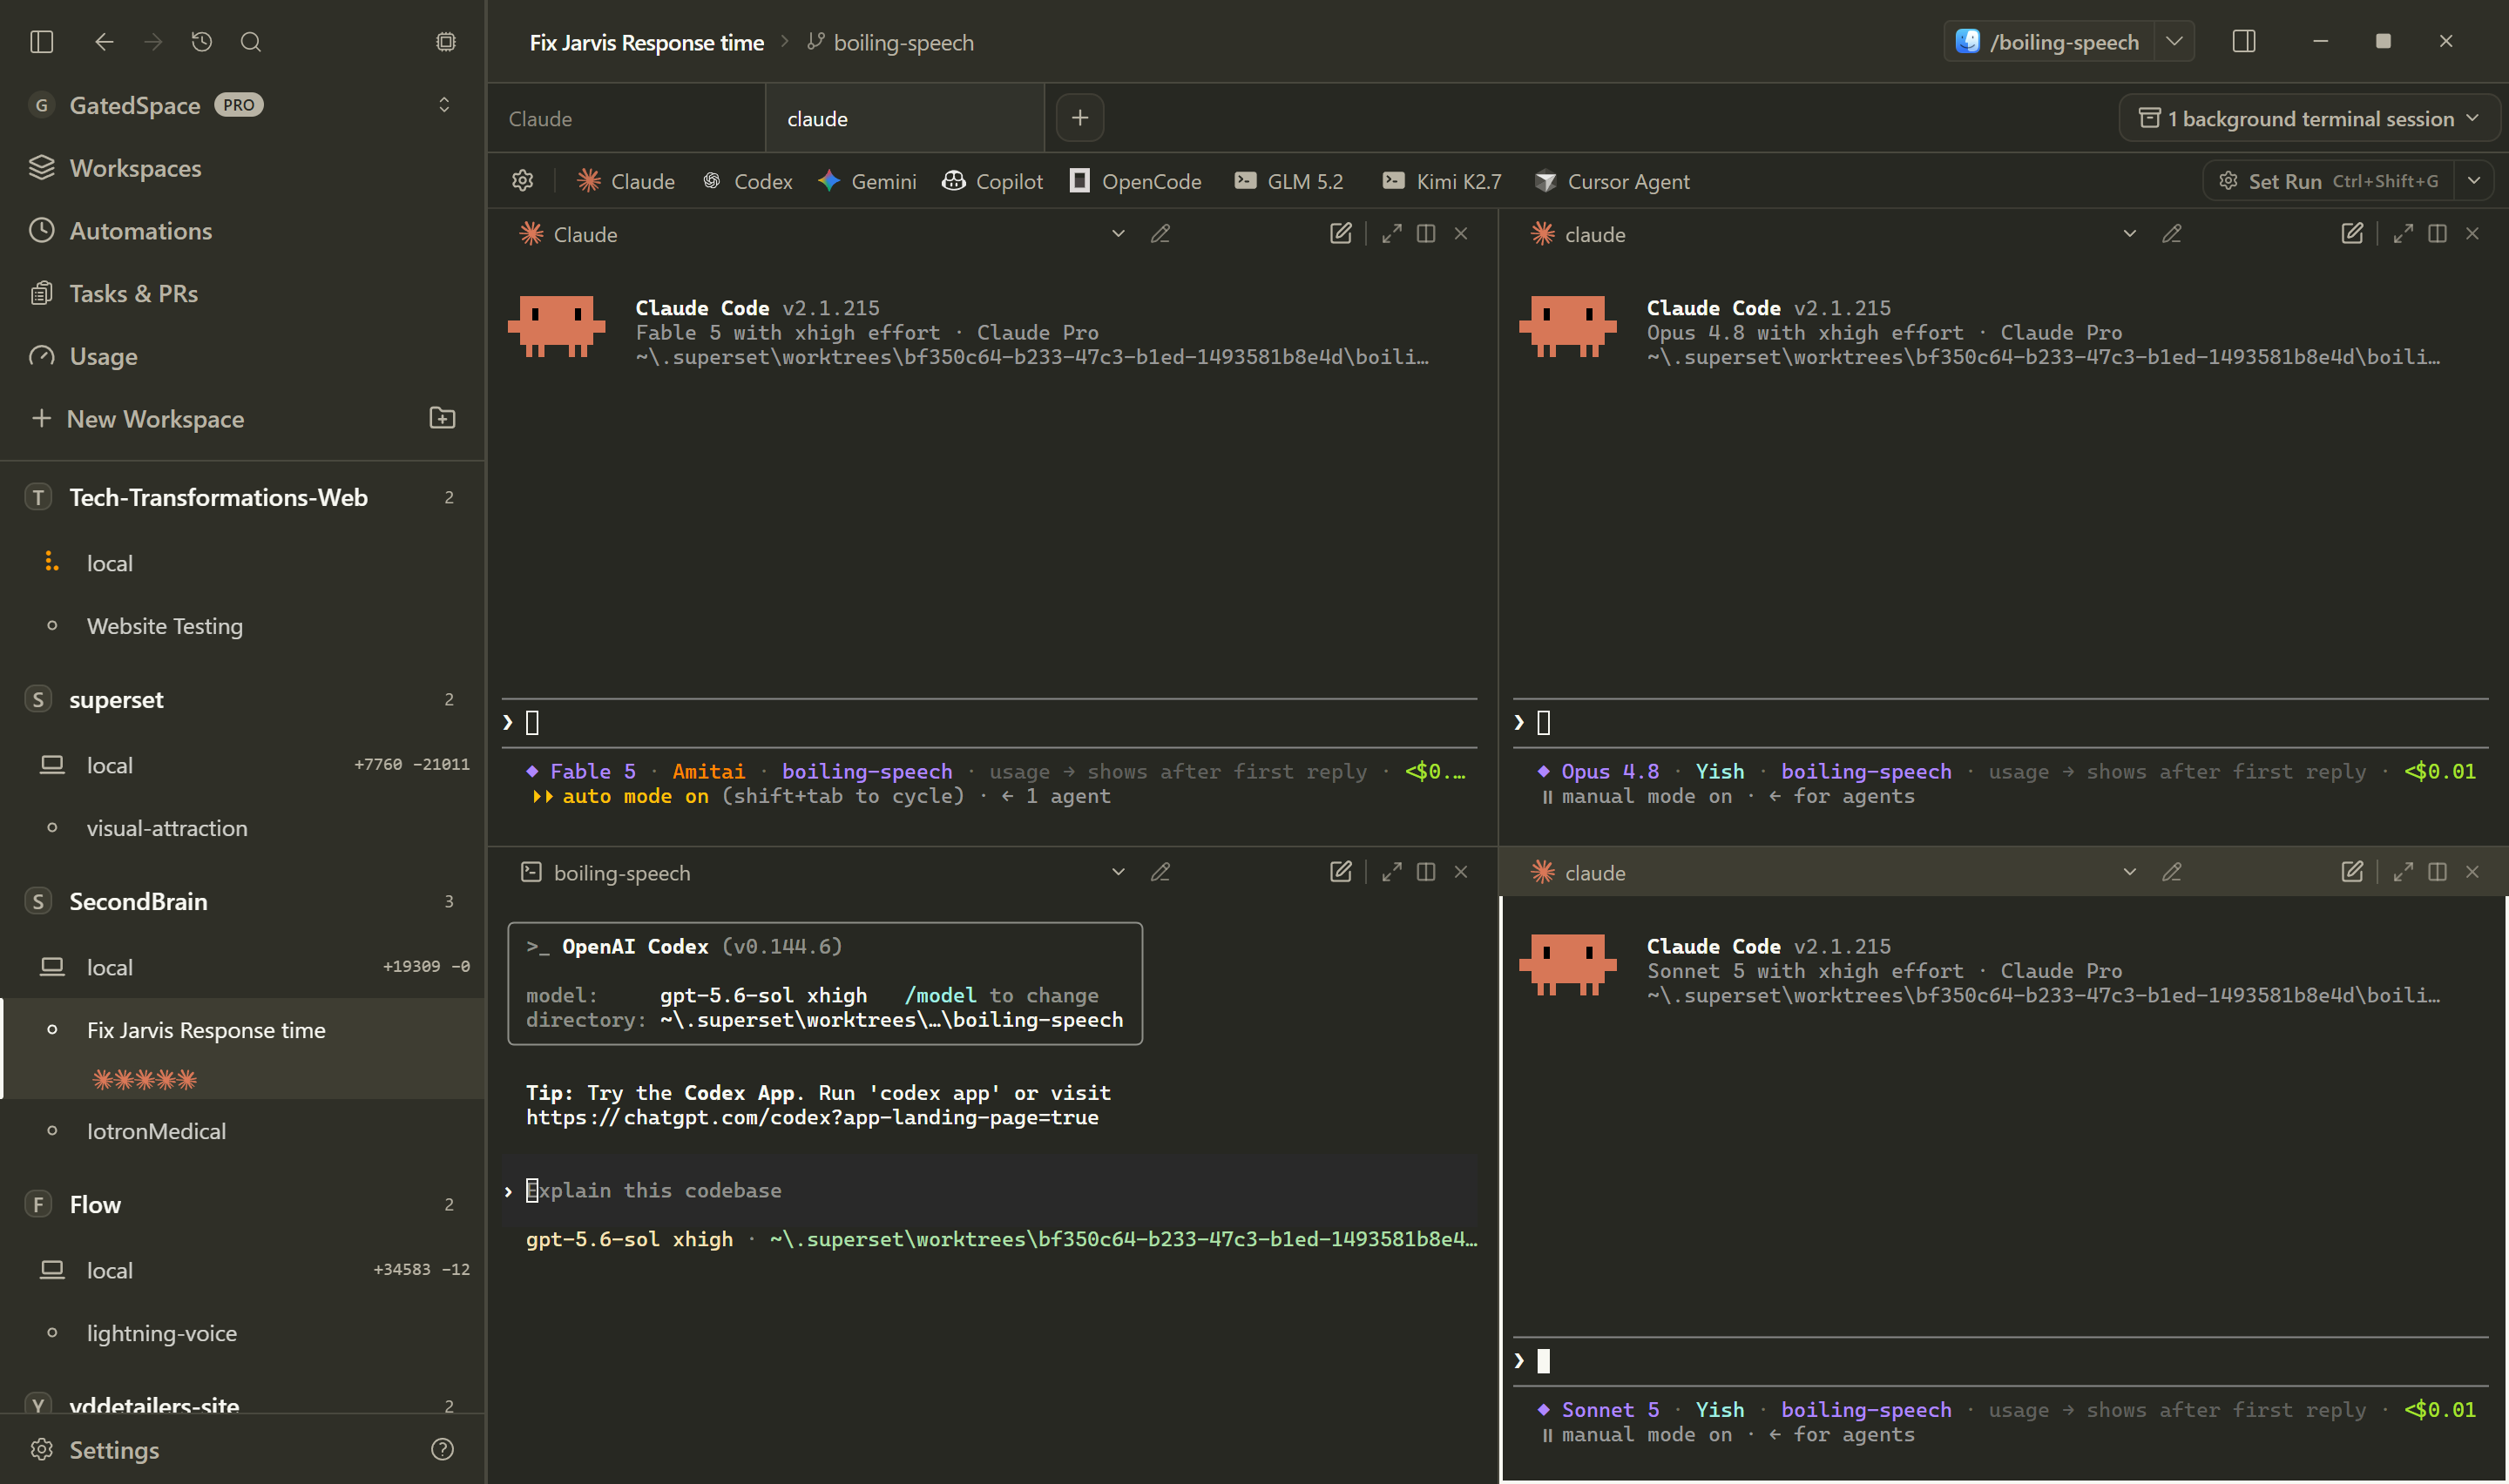
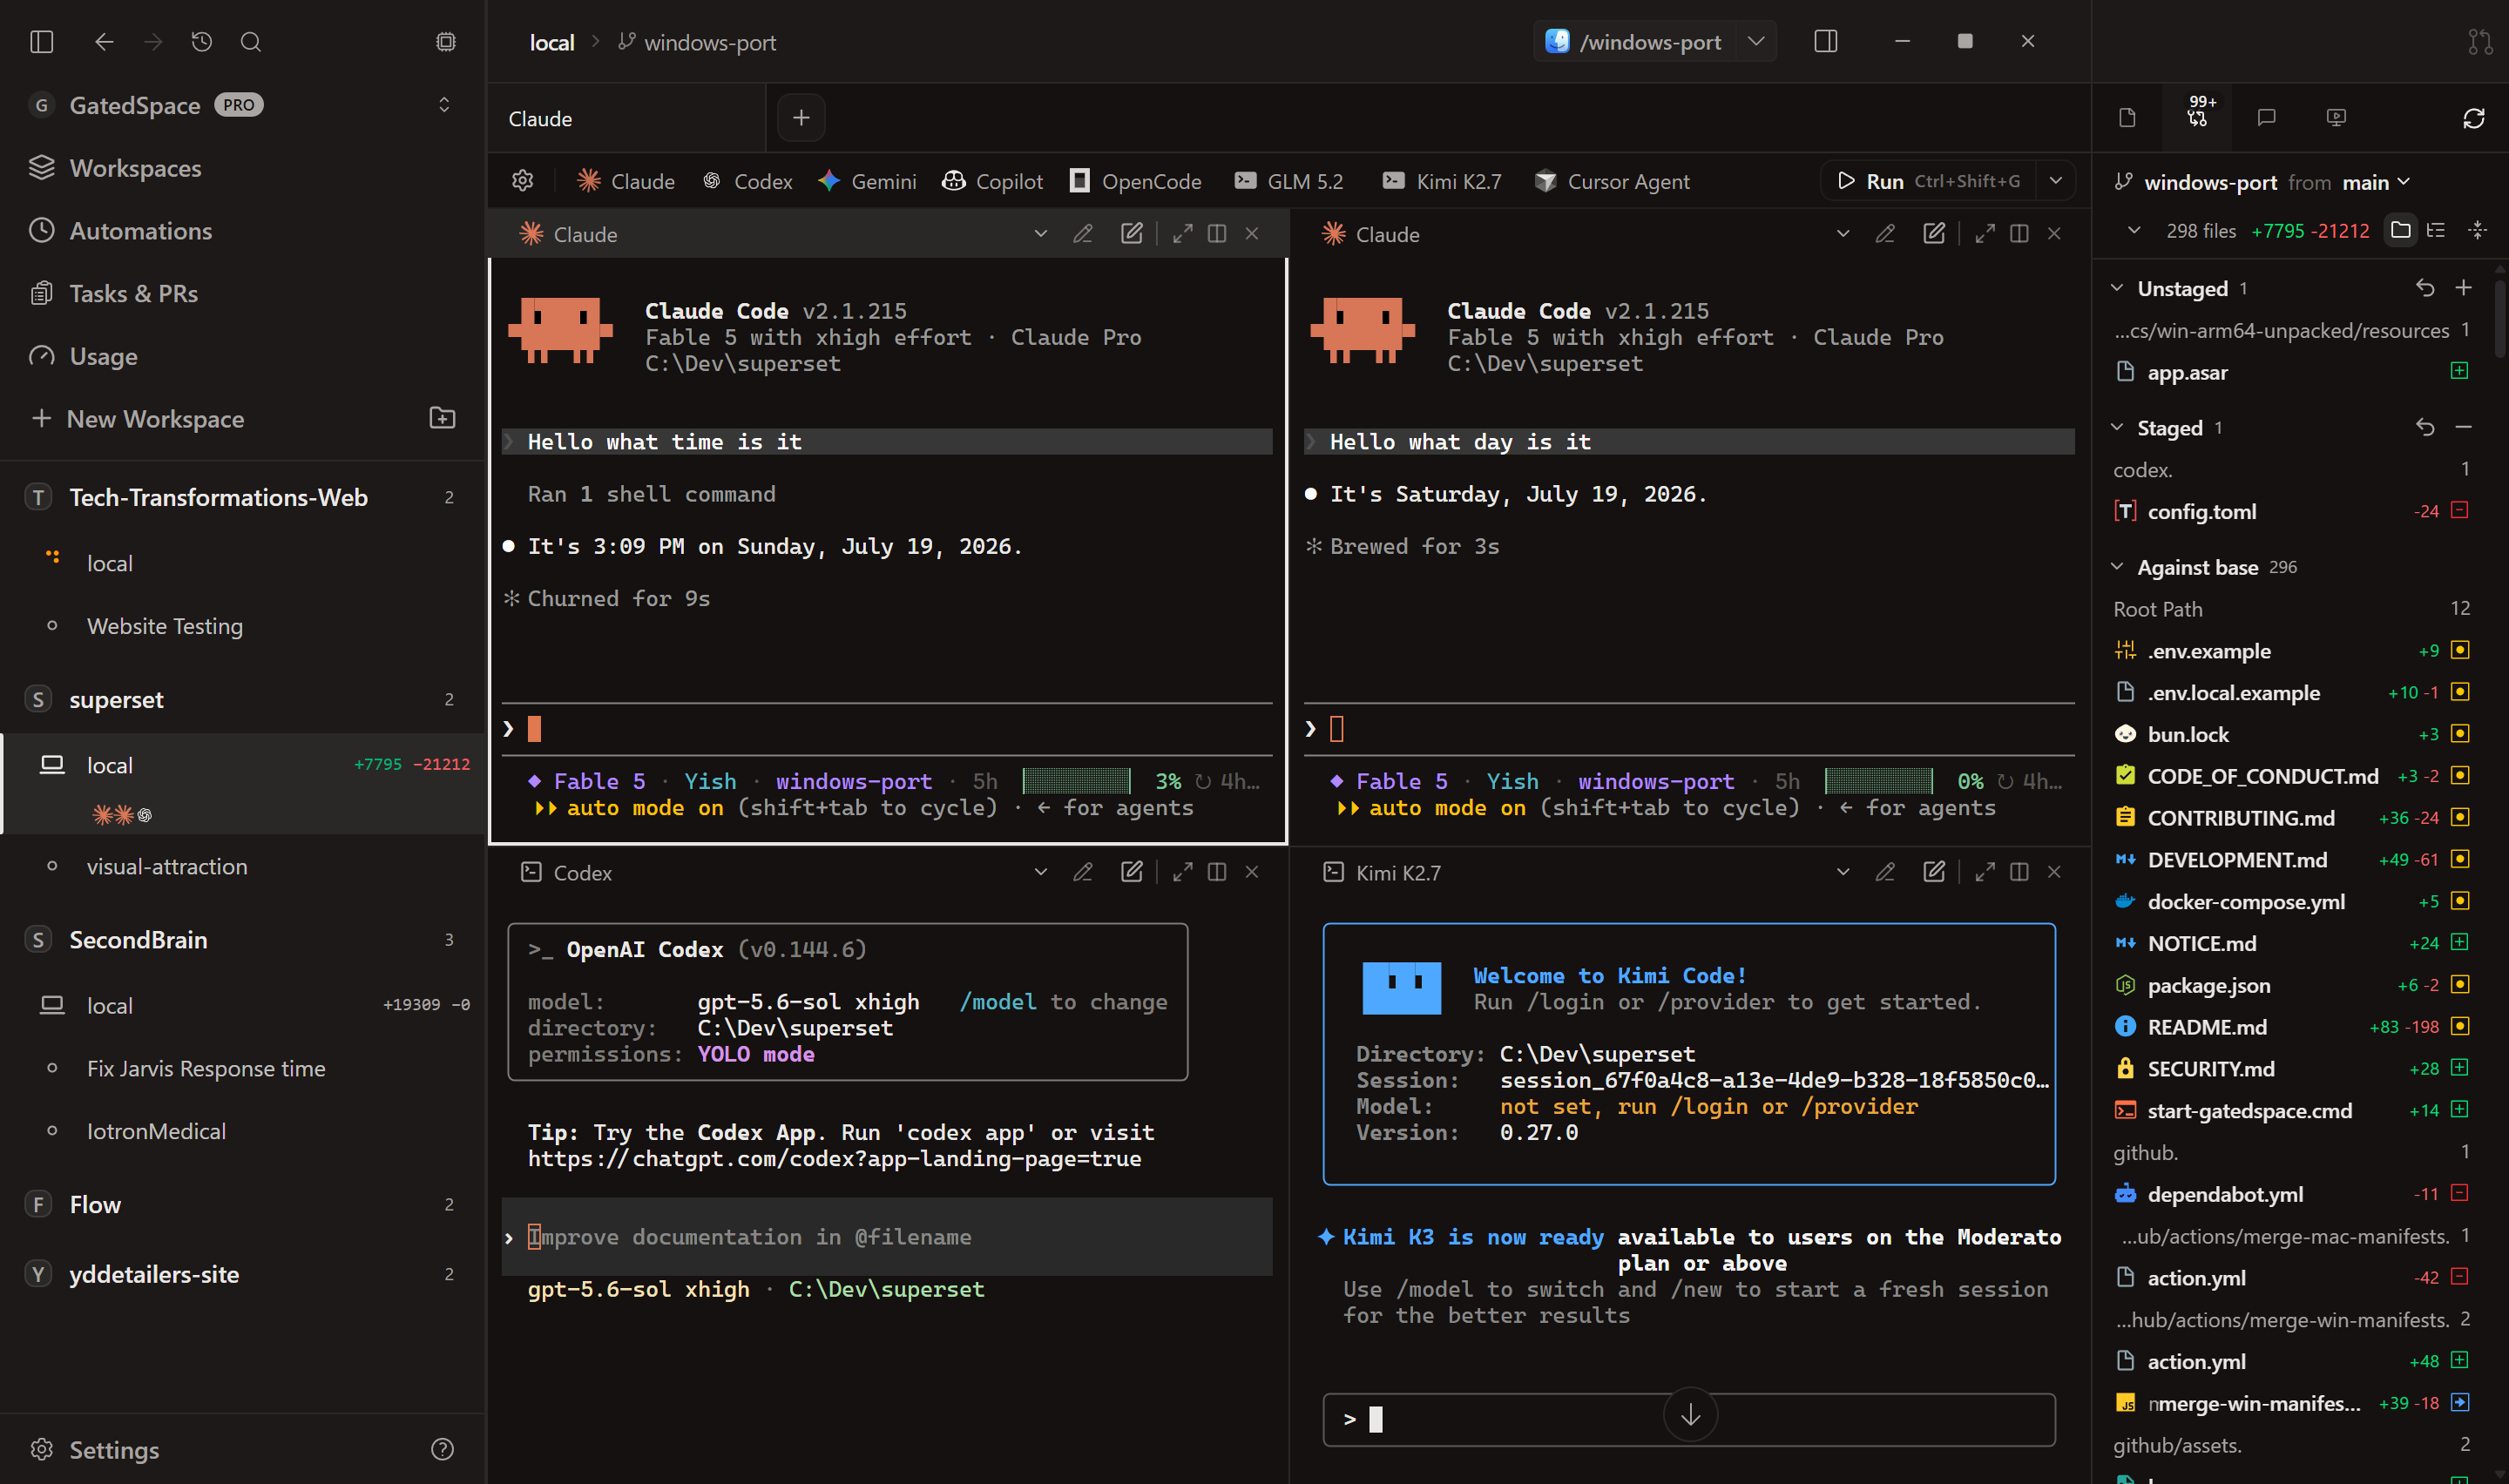
Swap hero screenshot; drop upstream Codex MCP config

diff --git a/README.md b/README.md
@@ -25,9 +25,9 @@ and workspace management.
 
 <br />
 
-![GatedSpace running four agents in parallel: Claude Code on three different models plus OpenAI Codex, each in its own pane](.github/assets/hero.png)
+![GatedSpace running Claude Code, OpenAI Codex, and Kimi Code in parallel, with the built-in diff review open](.github/assets/hero.png)
 
-<sub>Four agents, four models, one workspace — Claude Code (Fable 5, Opus 4.8, Sonnet 5) and OpenAI Codex running side by side.</sub>
+<sub>Claude Code, OpenAI Codex, and Kimi Code working the same repo in parallel — each in its own pane, with the built-in diff review on the right.</sub>
 
 </div>
 